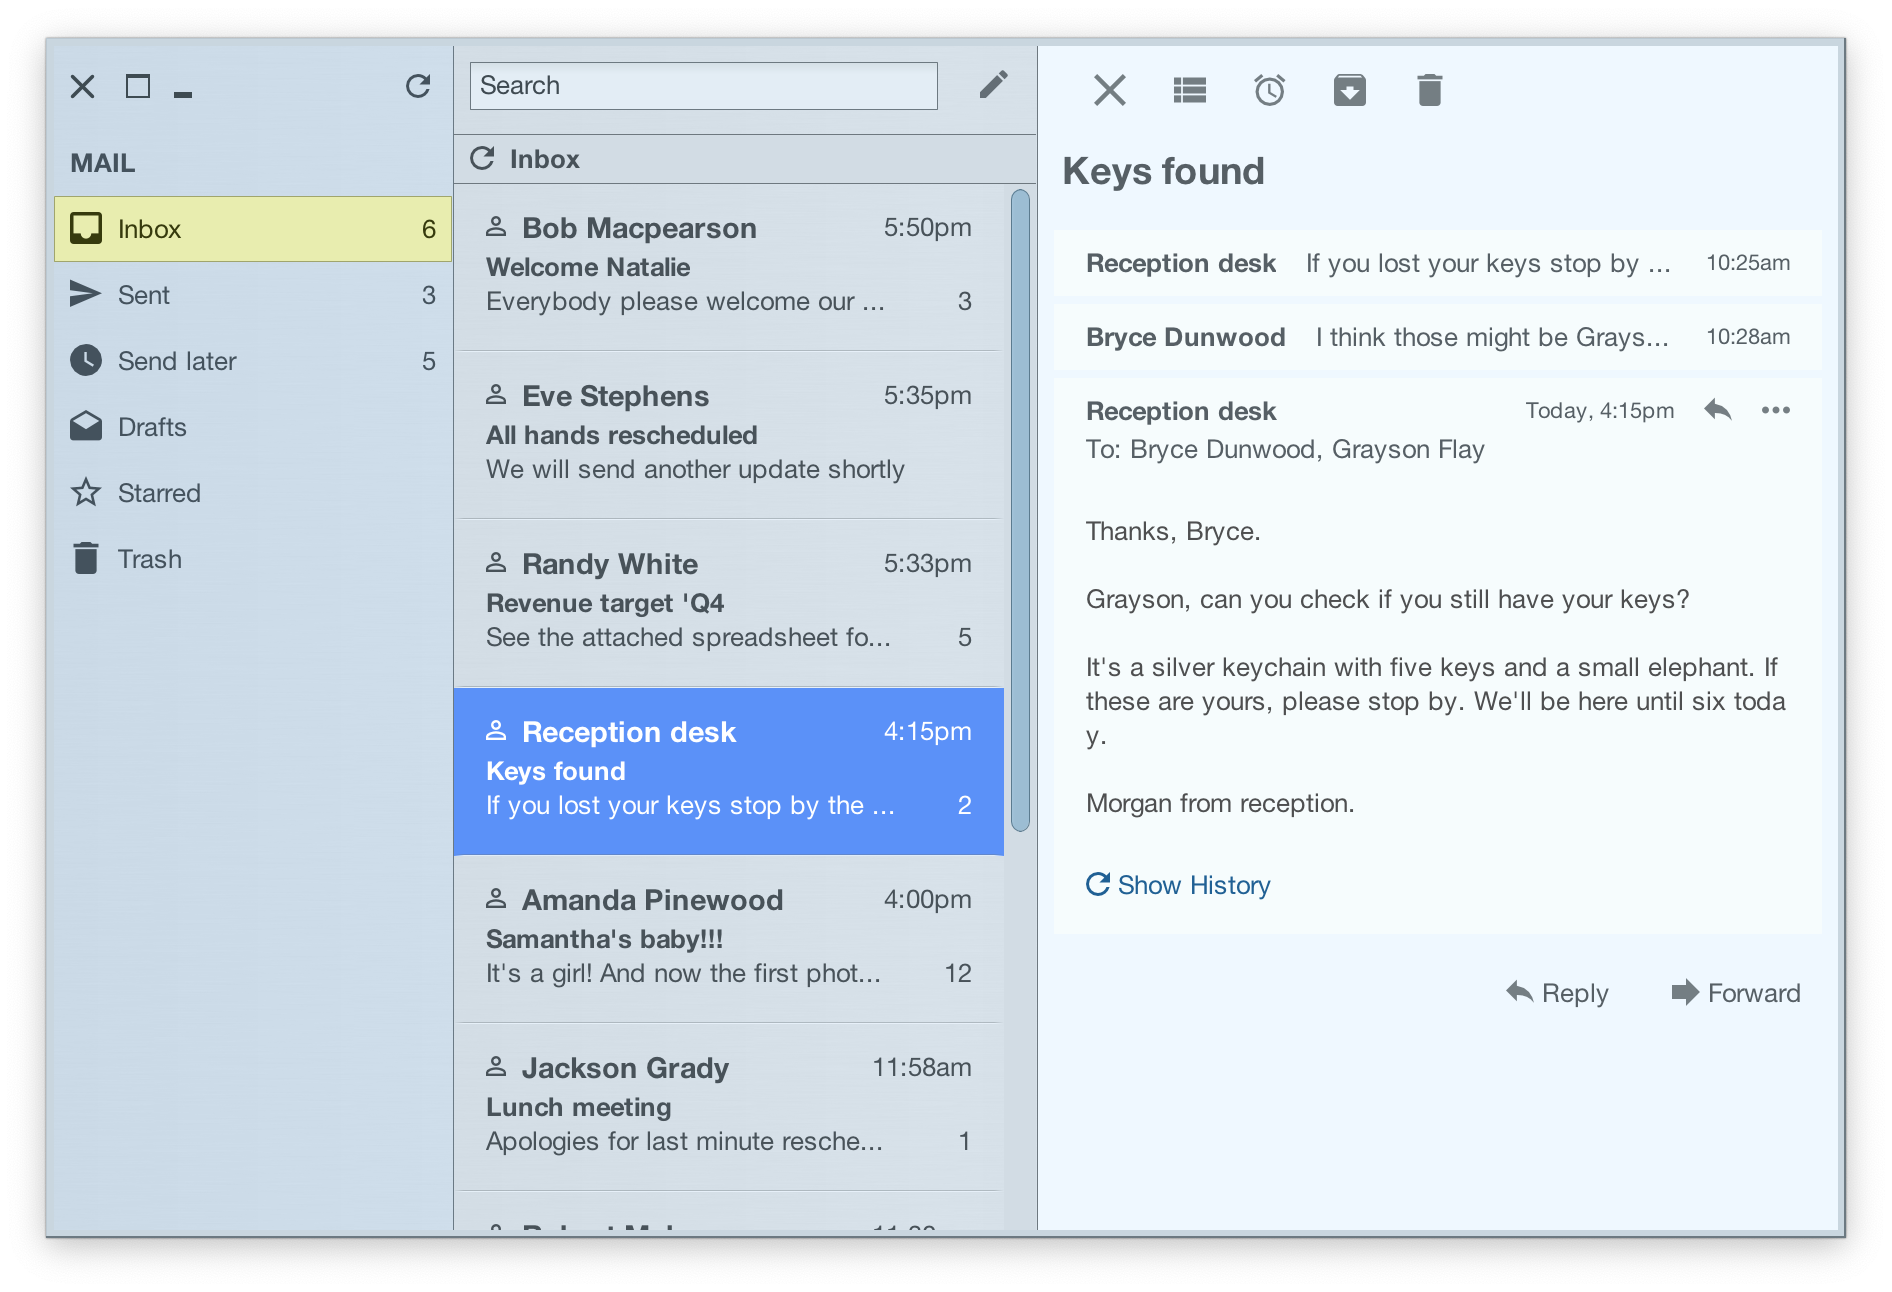
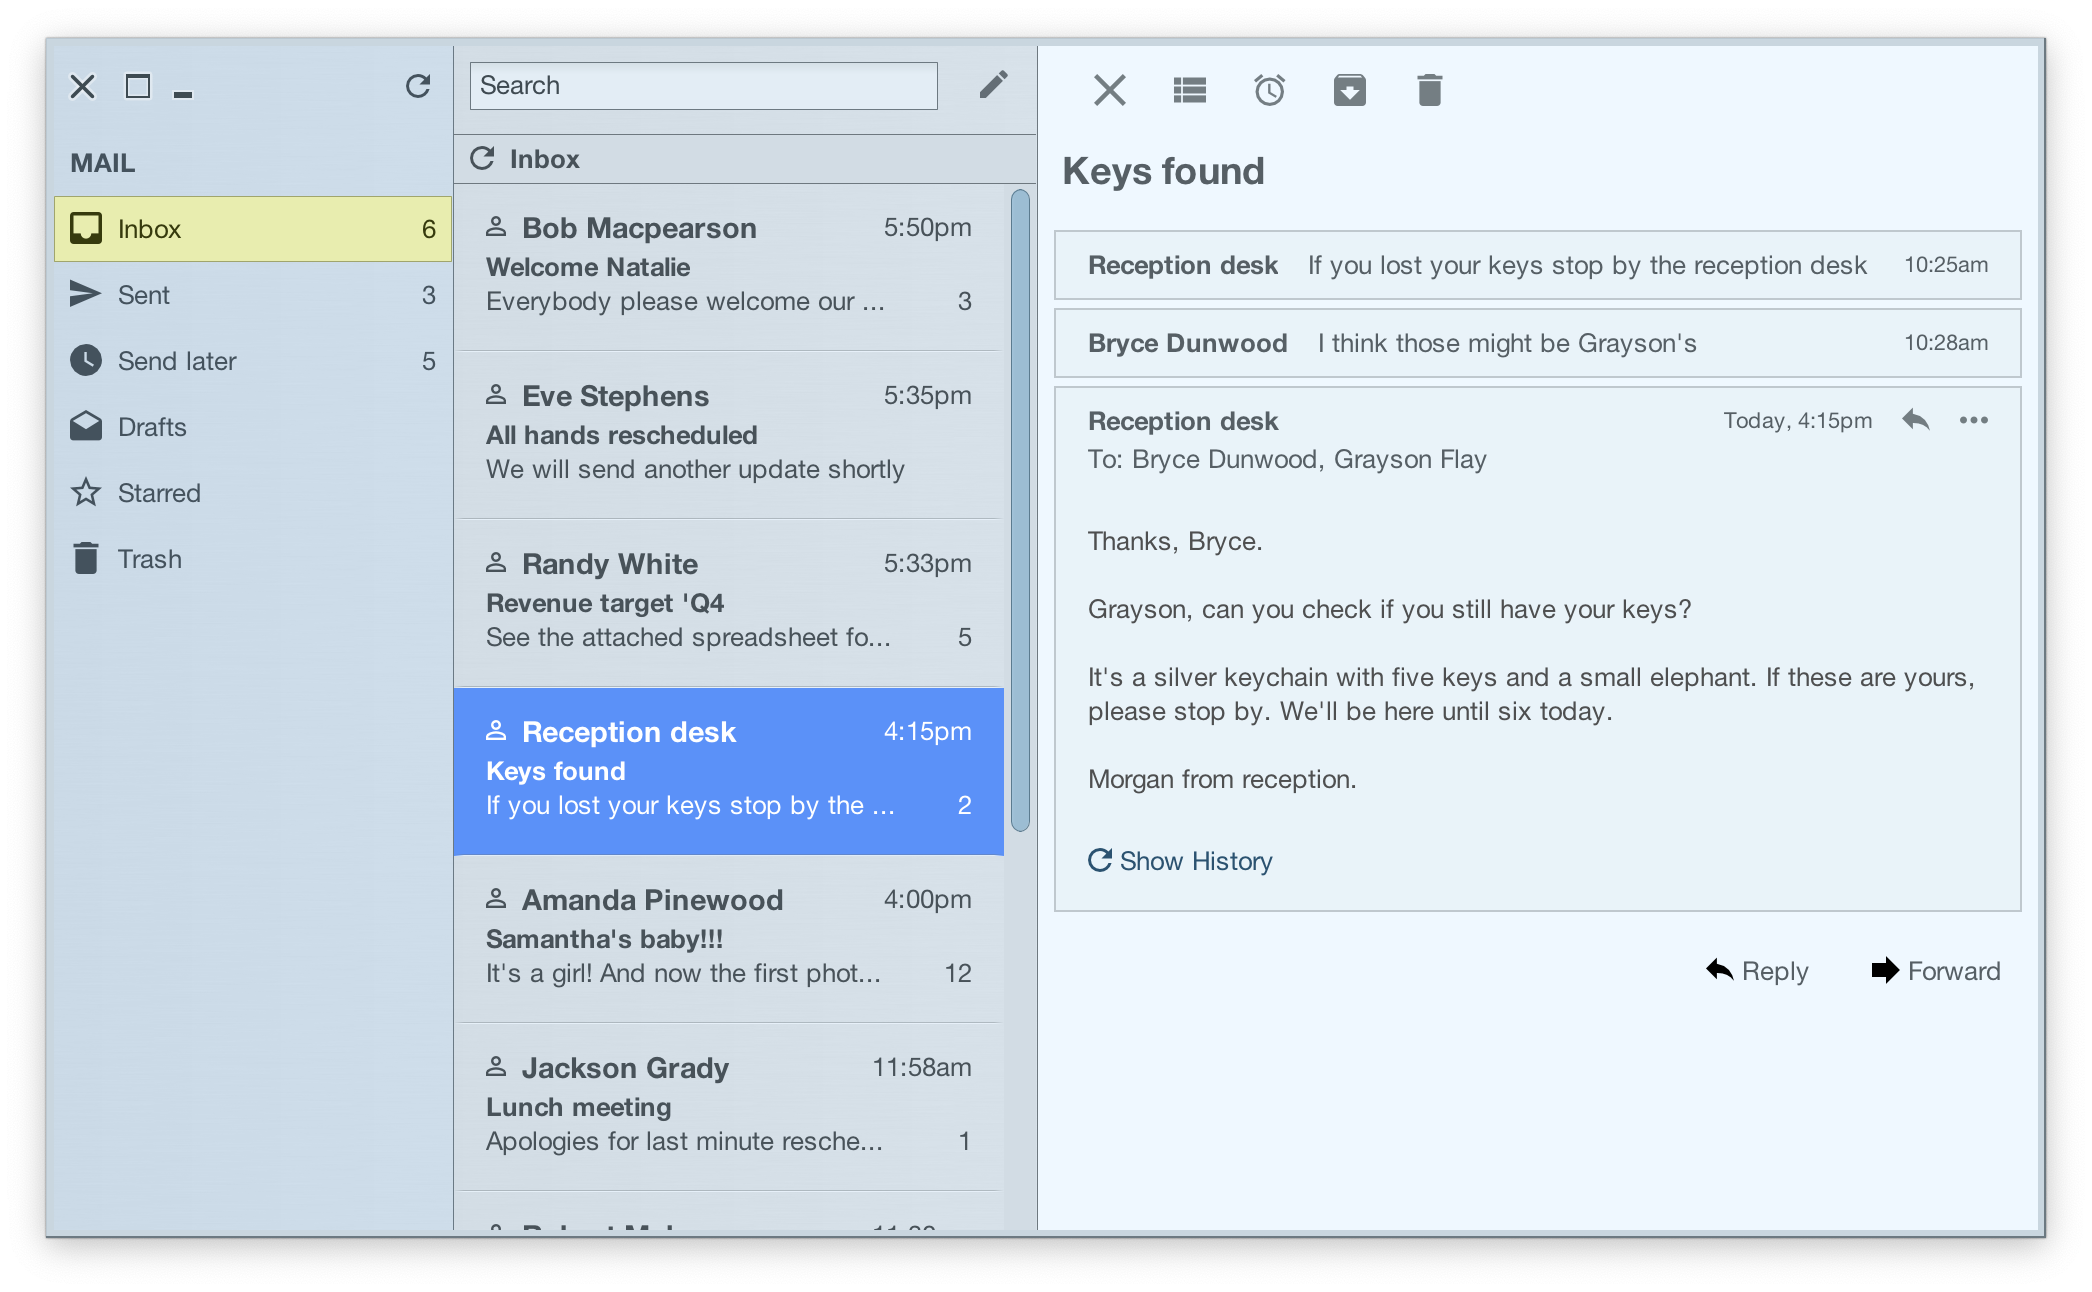
Visor demo updates
Visual tweaks to the Visor mail demo

diff --git a/demos/theming-apps/src/main/java/org/pushingpixels/radiance/demo/themingapps/mail/ThreadPanel.java b/demos/theming-apps/src/main/java/org/pushingpixels/radiance/demo/themingapps/mail/ThreadPanel.java
@@ -39,6 +39,7 @@ import org.pushingpixels.radiance.theming.api.RadianceThemingSlices;
 
 import javax.swing.*;
 import javax.swing.border.EmptyBorder;
+import javax.swing.border.LineBorder;
 import java.awt.*;
 
 /**
@@ -50,34 +51,39 @@ public class ThreadPanel extends JPanel {
         this.setLayout(new VerticalStackLayout());
 
         RadianceSkin currentSkin = RadianceThemingCortex.GlobalScope.getCurrentSkin();
-        ContainerColorTokens colorTokens = currentSkin.getNeutralContainerTokens(this);
-        Color onContainer = colorTokens.getOnContainer();
+
+        ContainerColorTokens neutralColorTokens = currentSkin.getNeutralContainerTokens(this);
+        Color onContainer = neutralColorTokens.getOnContainer();
         Color iconColor = new Color(onContainer.getRed(),
             onContainer.getGreen(), onContainer.getBlue(), 204);
-        Color backgroundColor = colorTokens.getContainerSurface();
-        Color innerBackgroundColor = colorTokens.getContainerSurfaceLowest();
+        Color backgroundColor = neutralColorTokens.getContainerSurface();
+        Color innerBackgroundColor = neutralColorTokens.getContainerSurfaceHighest();
+        Color innerBorderColor = neutralColorTokens.getContainerOutlineVariant();
+
+        ContainerColorTokens activeColorTokens = currentSkin.getActiveContainerTokens(this);
+        Color accentedColor = activeColorTokens.getAccentOnContainer();
 
         this.add(getHeaderActionsPanel(iconColor, backgroundColor));
         this.add(getMessageTitlePanel("Keys found", backgroundColor));
 
         this.add(getCollapsedMessagePanel("Reception desk",
                 "If you lost your keys stop by the reception desk", "10:25am", innerBackgroundColor,
-                backgroundColor));
+            innerBorderColor, backgroundColor));
         this.add(getCollapsedMessagePanel("Bryce Dunwood", "I think those might be Grayson's",
-                "10:28am", innerBackgroundColor, backgroundColor));
+                "10:28am", innerBackgroundColor, innerBorderColor, backgroundColor));
         this.add(getFullMessagePanel("Reception desk", "Today, 4:15pm",
                 "Bryce Dunwood, Grayson Flay",
                 "Thanks, Bryce.\n\nGrayson, can you check if you still have your keys?\n\n"
                         + "It's a silver keychain with five keys and a small elephant. "
                         + "If these are yours, please stop by. We'll be here until six today.\n\n"
                         + "Morgan from reception.",
-                innerBackgroundColor, backgroundColor, iconColor));
+                innerBackgroundColor, innerBorderColor, backgroundColor, iconColor, accentedColor));
 
-        this.add(getFooterActionsPanel(backgroundColor, iconColor));
+        this.add(getFooterActionsPanel(backgroundColor));
 
         this.setBackground(backgroundColor);
 
-        this.setPreferredSize(new Dimension(400, 0));
+        this.setPreferredSize(new Dimension(500, 0));
     }
 
     private JPanel getHeaderActionsPanel(Color iconColor, Color backgroundColor) {
@@ -124,11 +130,12 @@ public class ThreadPanel extends JPanel {
     }
 
     private JPanel getCollapsedMessagePanel(String from, String summary, String date,
-            Color innerBackground, Color outerBackground) {
+        Color innerBackground, Color innerBorder, Color outerBackground) {
+
         FormBuilder builder = FormBuilder.create().
-                columns("center:pref, 8dlu, 0dlu:grow, 8dlu, right:pref").
-                rows("p").
-                padding(new EmptyBorder(8, 16, 8, 16));
+            columns("center:pref, 8dlu, 0dlu:grow, 8dlu, right:pref").
+            rows("p").
+            padding(new EmptyBorder(8, 16, 8, 16));
         Font baseFont = RadianceThemingCortex.GlobalScope.getFontPolicy().getFontSet()
                 .getControlFont();
 
@@ -146,16 +153,21 @@ public class ThreadPanel extends JPanel {
         result.setBorder(new EmptyBorder(2, 8, 2, 8));
         result.setBackground(outerBackground);
 
-        JPanel inner = builder.build();
+        JPanel inner = new JPanel(new BorderLayout());
+        inner.setBorder(new LineBorder(innerBorder));
+        inner.add(builder.build(), BorderLayout.CENTER);
         inner.setOpaque(true);
         inner.setBackground(innerBackground);
+
         result.add(inner, BorderLayout.CENTER);
 
         return result;
     }
 
     private JPanel getFullMessagePanel(String from, String date, String to, String message,
-            Color innerBackground, Color outerBackground, Color iconColor) {
+        Color innerBackground, Color innerBorder, Color outerBackground, Color iconColor,
+        Color accentedColor) {
+
         FormBuilder firstRow = FormBuilder.create().
                 columns("0dlu:grow, 8dlu, right:pref, 8dlu, center:pref, 8dlu, center:pref").
                 rows("p").
@@ -188,13 +200,12 @@ public class ThreadPanel extends JPanel {
         messagePane.setBackground(innerBackground);
         messagePane.setText(message);
 
-        Color historyColor = new Color(32, 96, 148);
         RadianceIcon historyIcon = refresh_black_24dp.factory().createNewIcon();
-        historyIcon.setColorFilter(color -> historyColor);
+        historyIcon.setColorFilter(color -> accentedColor);
         historyIcon.setDimension(new Dimension(12, 12));
         JLabel historyLabel = new JLabel("Show History", historyIcon, JLabel.LEADING);
         historyLabel.setBorder(new EmptyBorder(24, 16, 16, 16));
-        historyLabel.setForeground(historyColor);
+        historyLabel.setForeground(accentedColor);
         RadianceThemingCortex.ComponentOrParentChainScope.setColorizationFactor(historyLabel, 1.0);
 
         JPanel result = new JPanel(new BorderLayout());
@@ -204,6 +215,7 @@ public class ThreadPanel extends JPanel {
         JPanel inner = new JPanel(new VerticalStackLayout());
         inner.setOpaque(true);
         inner.setBackground(innerBackground);
+        inner.setBorder(new LineBorder(innerBorder));
         inner.add(firstRow.build());
         inner.add(toLabel);
         inner.add(messagePane);
@@ -214,21 +226,23 @@ public class ThreadPanel extends JPanel {
         return result;
     }
 
-    private JPanel getFooterActionsPanel(Color backgroundColor, Color iconColor) {
+    private JPanel getFooterActionsPanel(Color backgroundColor) {
         JPanel result = new JPanel(new FlowLayout(FlowLayout.TRAILING, 8, 0));
         result.setBorder(new EmptyBorder(16, 24, 16, 0));
 
         RadianceIcon replyIcon = reply_black_24dp.of(14, 14);
-        replyIcon.setColorFilter(color -> iconColor);
         JButton reply = new JButton("Reply", replyIcon);
 
         RadianceIcon forwardIcon = forward_black_24dp.of(14, 14);
-        forwardIcon.setColorFilter(color -> iconColor);
         JButton forward = new JButton("Forward", forwardIcon);
 
         // Mark the button panel to be flat - effectively marking both action buttons as flat
         RadianceThemingCortex.ComponentOrParentScope.setBackgroundAppearanceStrategy(result,
-                RadianceThemingSlices.BackgroundAppearanceStrategy.FLAT);
+            RadianceThemingSlices.BackgroundAppearanceStrategy.FLAT);
+        RadianceThemingCortex.ComponentScope.setIconFilterStrategies(result,
+            RadianceThemingSlices.IconFilterStrategy.THEMED_FOLLOW_TEXT,
+            RadianceThemingSlices.IconFilterStrategy.THEMED_FOLLOW_TEXT,
+            RadianceThemingSlices.IconFilterStrategy.THEMED_FOLLOW_COLOR_TOKENS);
 
         result.add(reply);
         result.add(forward);

diff --git a/demos/theming-apps/src/main/java/org/pushingpixels/radiance/demo/themingapps/mail/VisorSkin.java b/demos/theming-apps/src/main/java/org/pushingpixels/radiance/demo/themingapps/mail/VisorSkin.java
@@ -55,7 +55,7 @@ public class VisorSkin extends RadianceSkin {
     public VisorSkin() {
         ContainerColorTokensBundle visorDefaultBundle = new ContainerColorTokensBundle(
             /* activeContainerTokens */ ContainerColorTokensUtils.getContainerTokens(
-                /* seed */ Hct.fromInt(0xFF99B6CB),
+                /* seed */ Hct.fromInt(0xFF9FC5E8),
                 /* containerConfiguration */ ContainerConfiguration.defaultLight()),
             /* mutedContainerTokens */ ContainerColorTokensUtils.getContainerTokens(
                 /* seed */ Hct.fromInt(0xFFDEDDDF),

diff --git a/demos/theming-apps/src/main/java/org/pushingpixels/radiance/demo/themingapps/mail/VisorMail.java b/demos/theming-apps/src/main/java/org/pushingpixels/radiance/demo/themingapps/mail/VisorMail.java
@@ -78,7 +78,7 @@ public class VisorMail extends JFrame {
 
             // Set initial size, center in screen, configure to exit the app on clicking the
             // close button
-            visorMail.setSize(900, 600);
+            visorMail.setSize(1000, 600);
             visorMail.setLocationRelativeTo(null);
             visorMail.setDefaultCloseOperation(JFrame.EXIT_ON_CLOSE);
 
